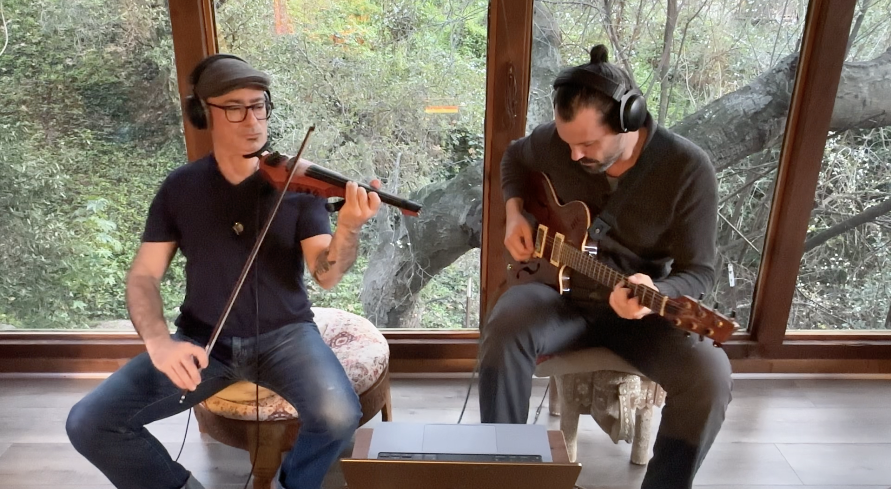
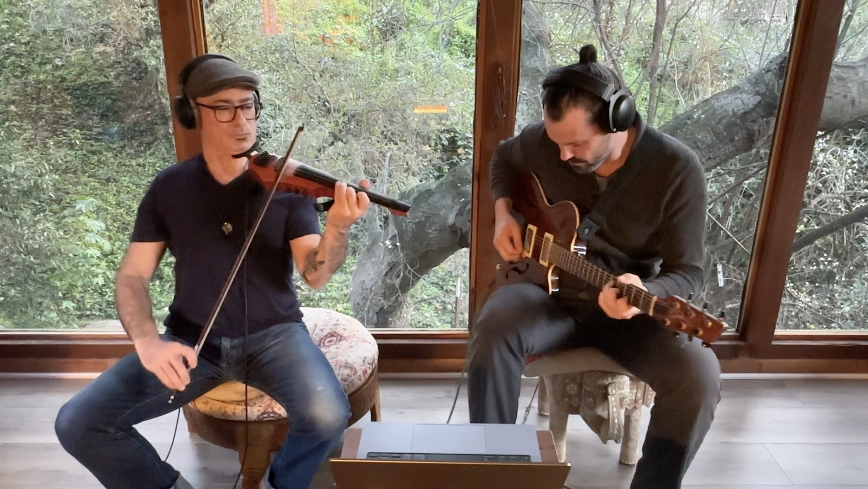
Fix black borders on video thumbnails: object-fit cover, aspect-ratio, crop light duo to 16:9

diff --git a/about.html b/about.html
@@ -418,6 +418,11 @@
       width: 100%;
       border-radius: 4px;
       background: #000;
+      object-fit: cover;
+    }
+
+    #video-player {
+      aspect-ratio: 620 / 750;
     }
     
     .player-thumbnail {
